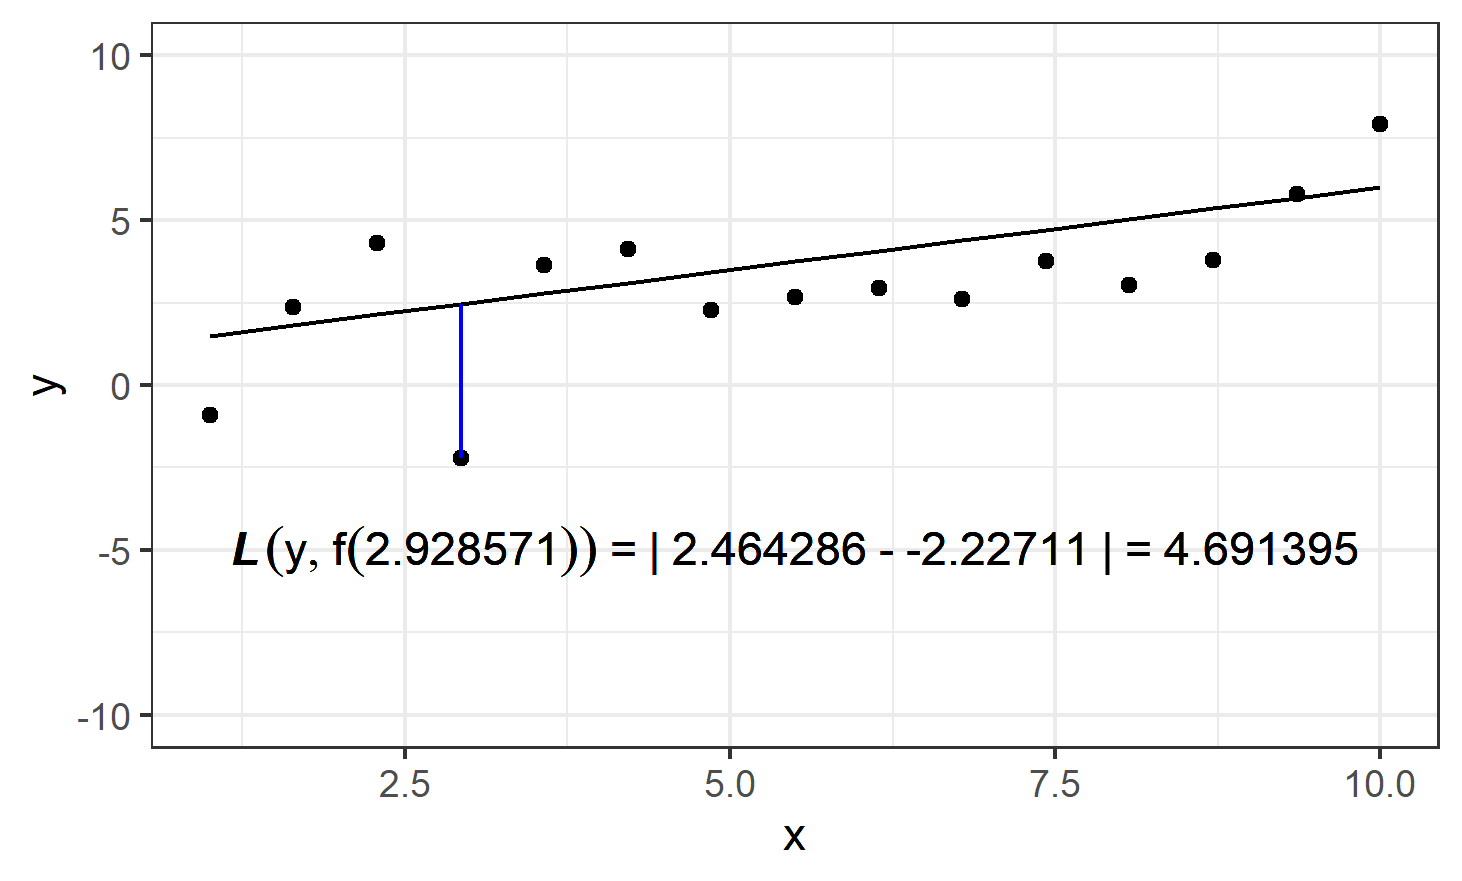
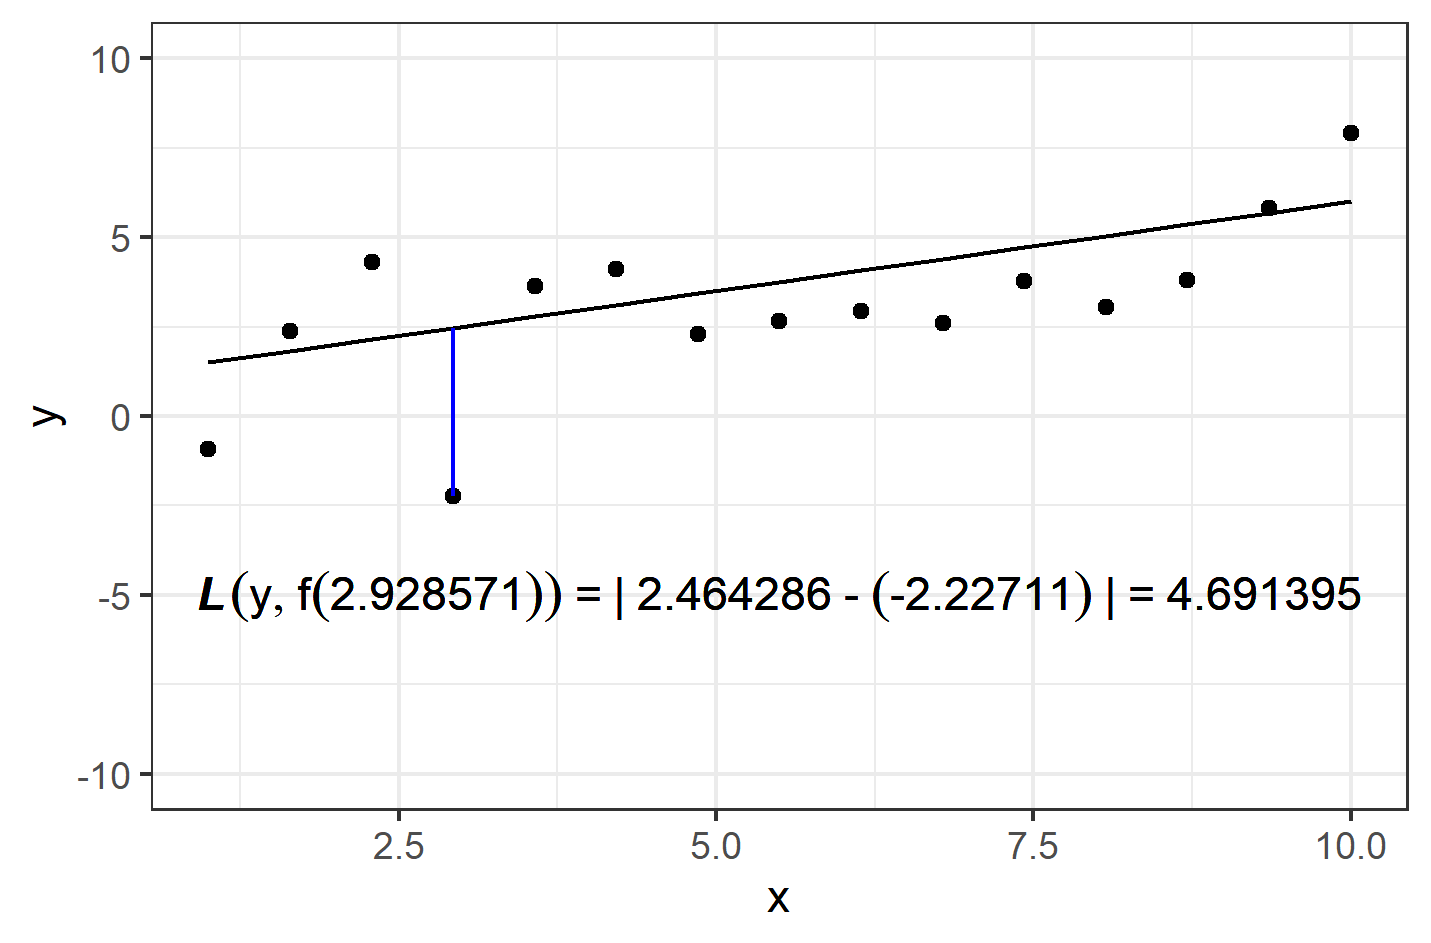
ml basics - risk minimization - smaller changes
slide 3, first sentence: end with "f(x) for a single observation x."

slide 3, second sentence: delete "quantify"

slide 3, plot: perhaps parentheses around (-2.22711) such that the two minus signs do not follow each other directly?

slide 4, second sentence: end with "average loss, also called empirical risk" and both "average loss" and "empirical risk" bold.

slide 5, put "(ERM)" behind "empirical risk minimization".

diff --git a/slides/ml-basics/slides-basics-riskminimization.tex b/slides/ml-basics/slides-basics-riskminimization.tex
@@ -184,11 +184,11 @@ Compare predictions from a model with observed target values:
 
 \begin{vbframe}{Loss}
 
-The \textbf{loss function} $\Lxy$ quantifies the "quality" of the prediction $\fx$ of a single observation.
+The \textbf{loss function} $\Lxy$ quantifies the "quality" of the prediction $\fx$ of a single observation $\xv$.
 
 \lz
 
-How "close" $\fx$ is to y quantify can be quantified e. g. by  $\Lxy = |\fx - y|$.
+How "close" $\fx$ is to y can be quantified e. g. by  $\Lxy = |\fx - y|$.
 
 
 \vfill
@@ -199,7 +199,7 @@ How "close" $\fx$ is to y quantify can be quantified e. g. by  $\Lxy = |\fx - y|
 \end{figure}
 \end{center}
 
-\vspace*{0.1cm}
+\vspace*{0.01cm}
 
 \end{vbframe}
 
@@ -210,8 +210,8 @@ The \textbf{risk function} quantifies the "quality" of the whole model.
 
 \lz
 
-The ability of a model $f$ to reproduce the association between $\xv$ and $y$ that is present in the data $\D$ can be measured by the \textbf{average loss}: \\
-    the empirical risk
+The ability of a model $f$ to reproduce the association between $\xv$ and $y$ that is present in the data $\D$ can be measured by the \textbf{average loss}, also called \textbf{"empirical risk"}: \\
+
   $$
   \riskef = \meanin \Lxyi.
   $$  
@@ -237,7 +237,7 @@ The best model is the model with the smallest risk.
 
 \lz
 
-The process of finding the best model is called \textbf{empirical risk minimization}.
+The process of finding the best model is called \textbf{empirical risk minimization} (ERM).
 
 % Learning -- finding the \enquote{best} model -- then amounts to \textbf{empirical risk minimization}:\\    figuring out which model $f$ has the smallest average loss:
 $$
